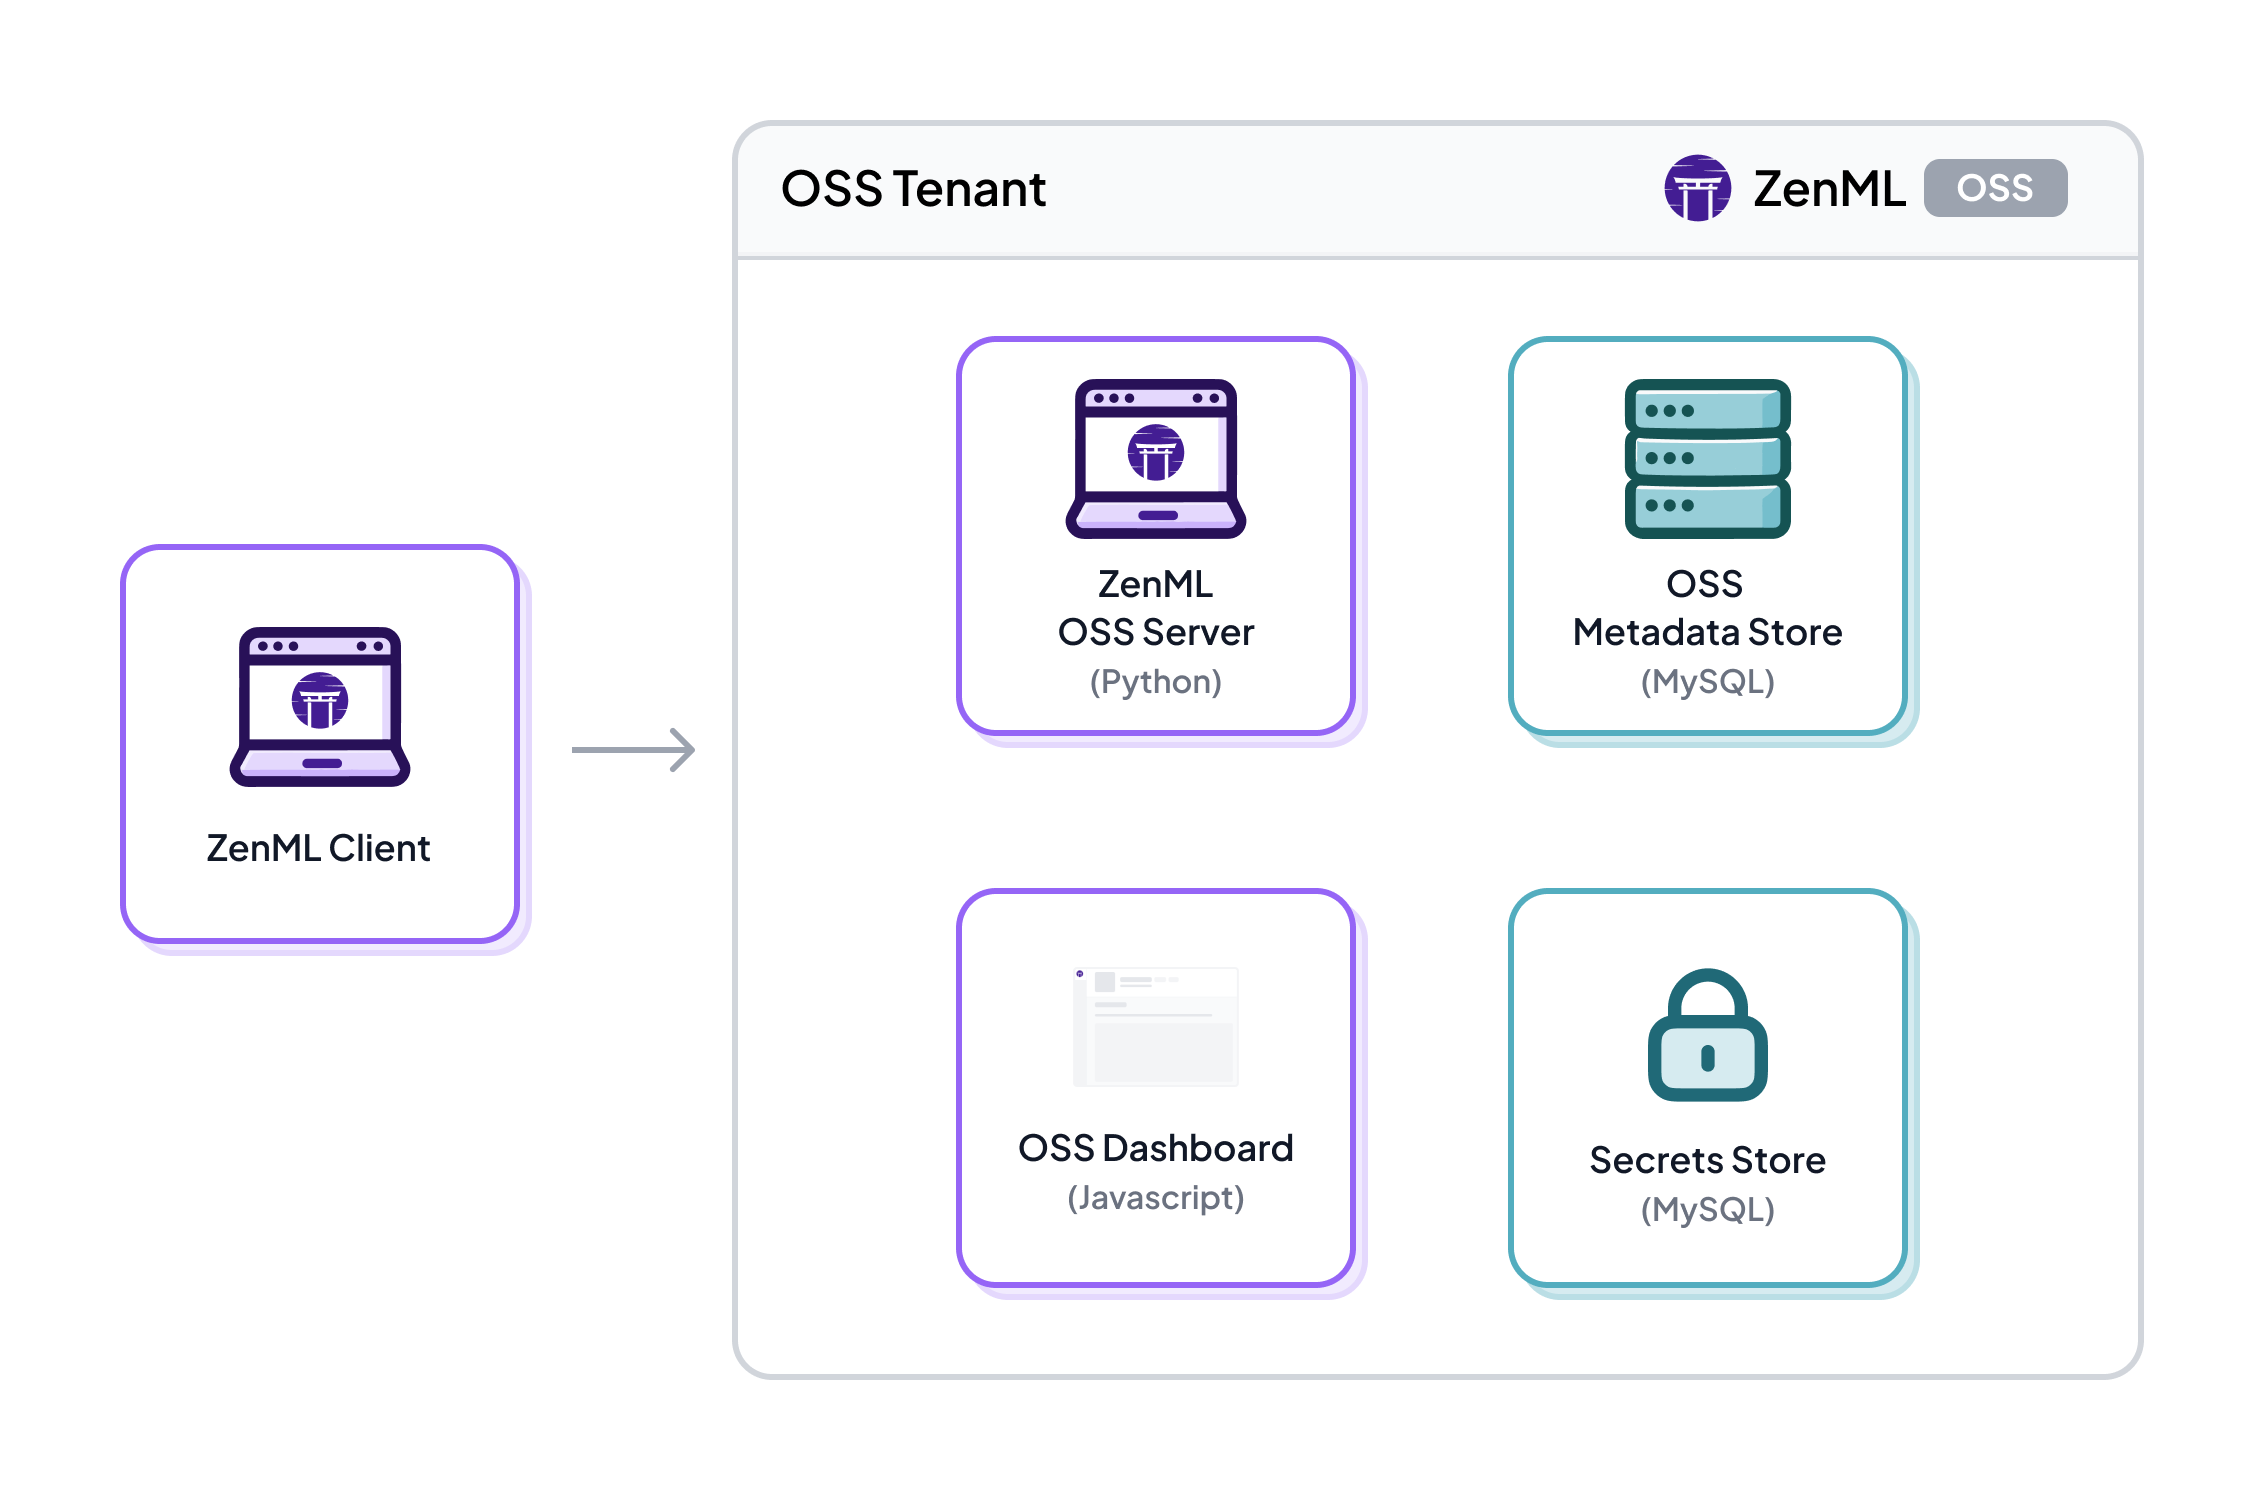
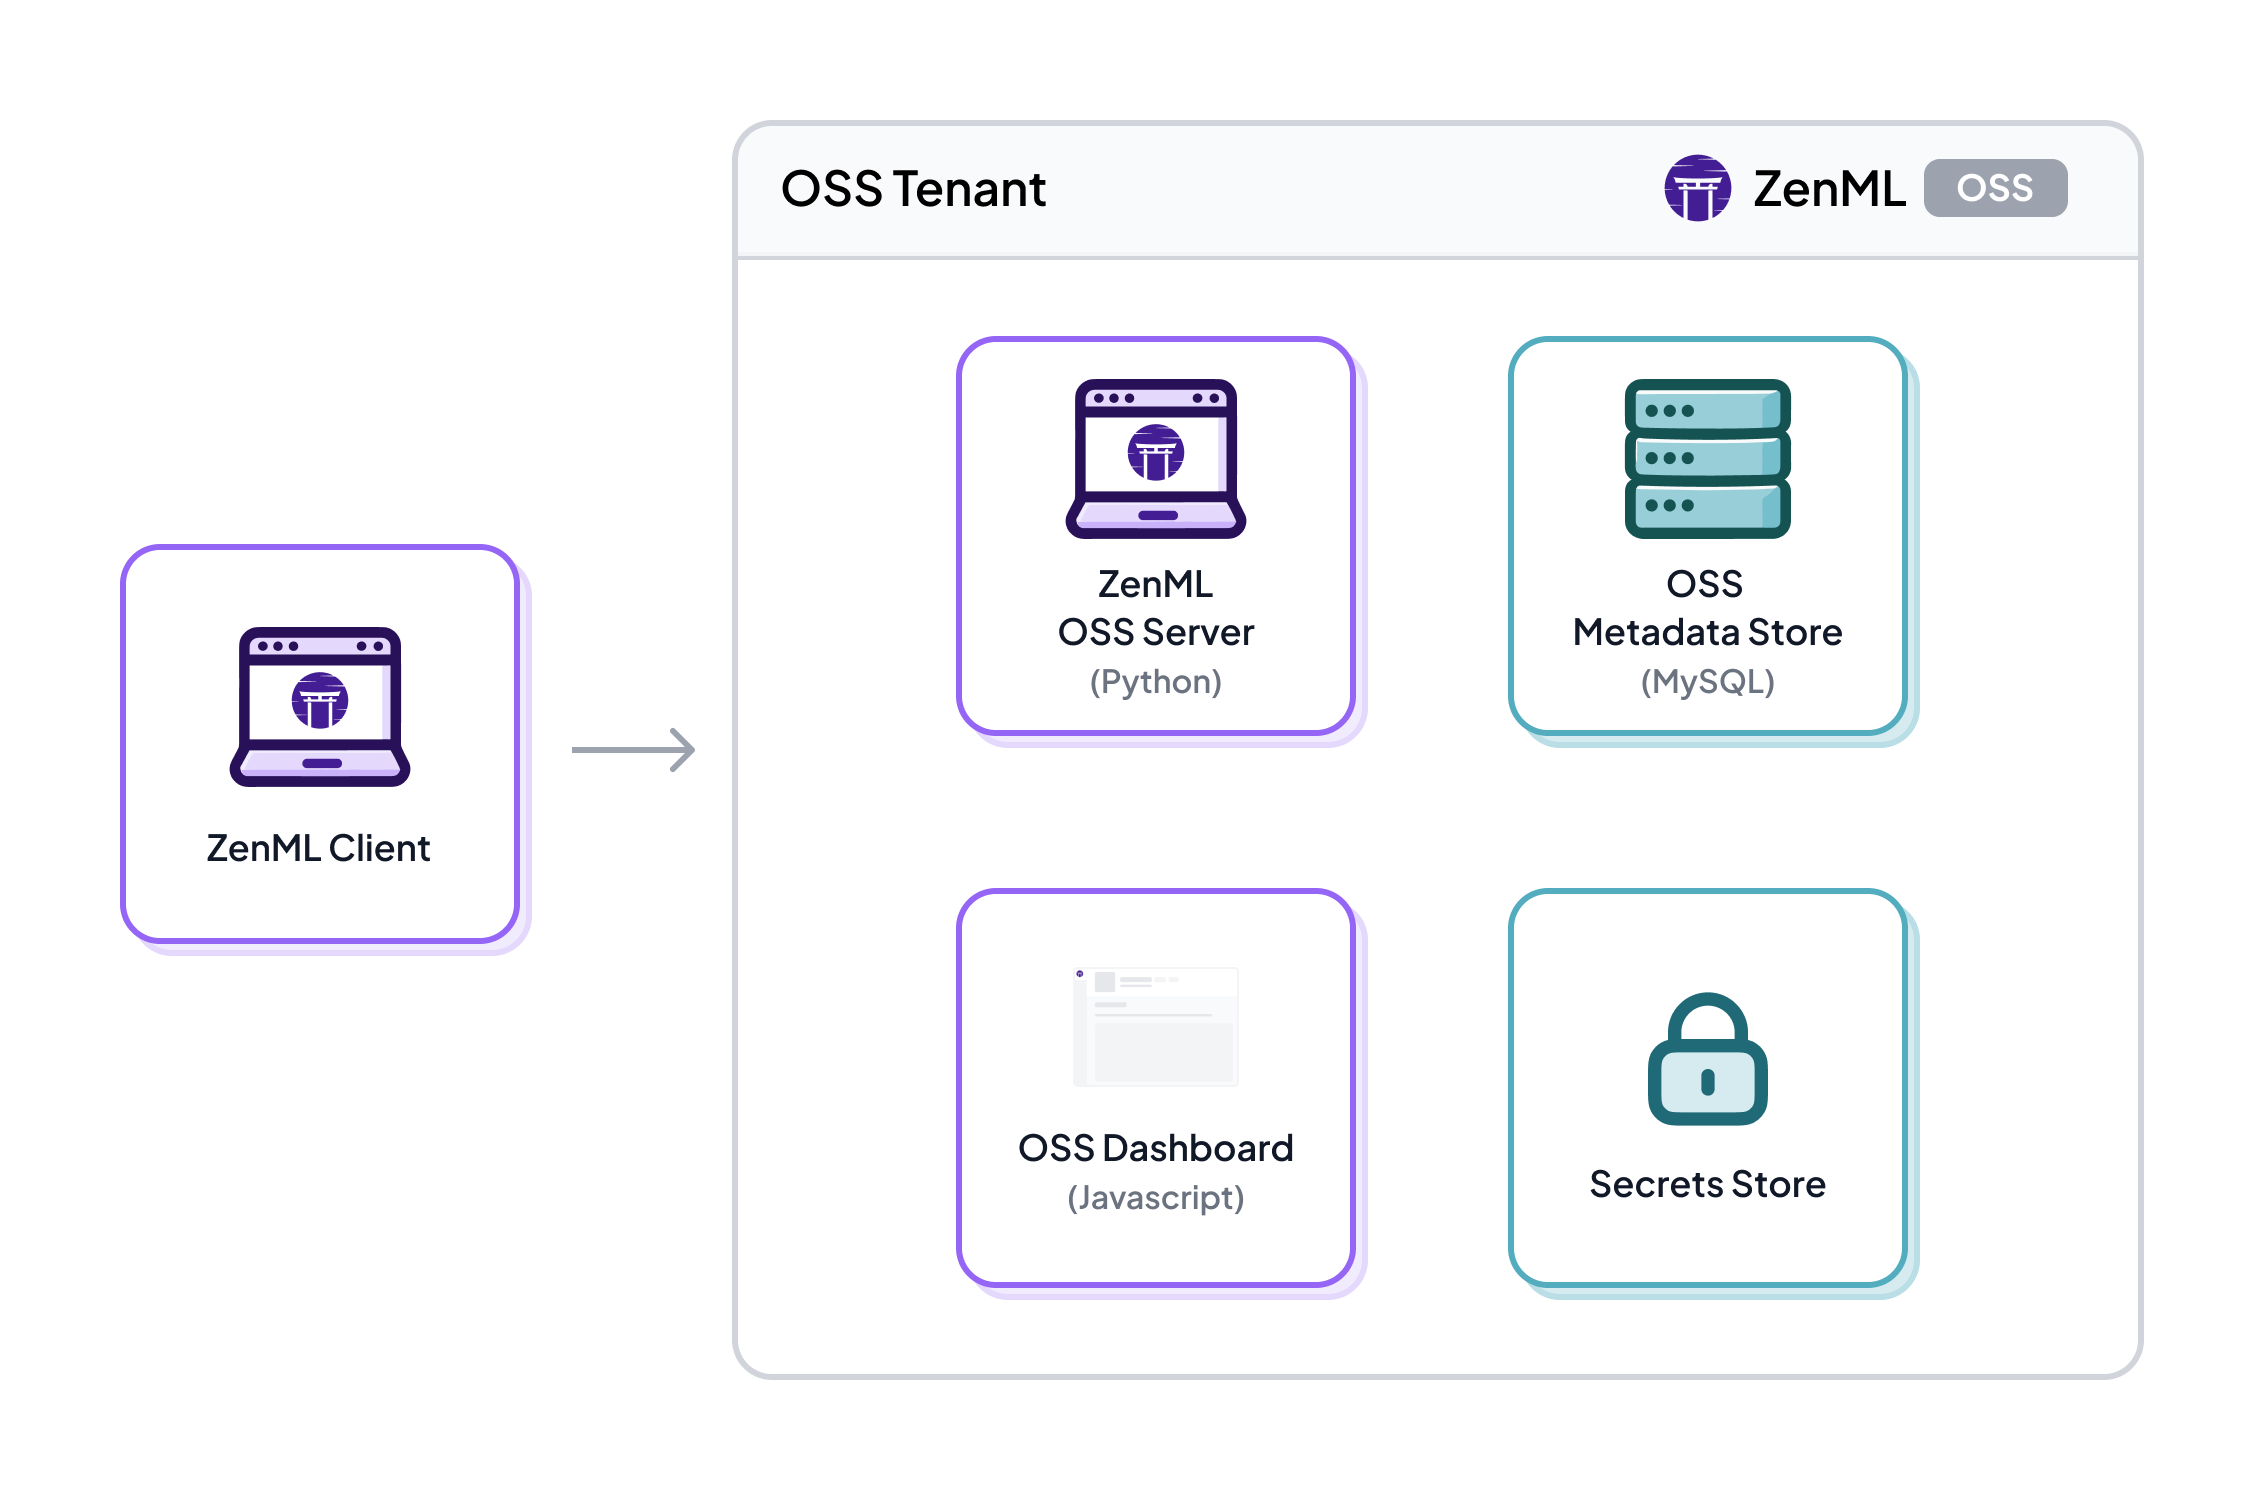
Update ZenML OSS deployment components

Changed region(s): [[0.6802, 0.644, 0.8039, 0.828]]

diff --git a/docs/book/getting-started/system-architectures.md b/docs/book/getting-started/system-architectures.md
@@ -9,15 +9,15 @@ SaaS, to self-hosted ZenML Pro!
 
 ## ZenML OSS (Community Edition, Self-hosted)
 
-A ZenML OSS deployment consists of the following moving pieces:
+A ZenML OSS deployment (AKA a tenant) consists of the following moving pieces:
 
-* **ZenML Server**: This is a FastAPI app that manages metadata of pipelines, artifacts, stacks etc.
+* **ZenML OSS Server**: This is a FastAPI app that manages metadata of pipelines, artifacts, stacks etc.
   Note: In ZenML Pro, the notion of a ZenML server is replaced with so-called "Tenant". For
   all intents and purposes, consider a ZenML Tenant == ZenML OSS server + more functionality. 
-* **ML Metadata Store**: This is where all ZenML tenant metadata is stored, including
+* **OSS Metadata Store**: This is where all ZenML tenant metadata is stored, including
   ML metadata such as tracking and versioning information about pipelines and
   models.
-* **ZenML OSS Dashboard**: This is a ReactJS app that shows pipelines, runs, etc.
+* **OSS Dashboard**: This is a ReactJS app that shows pipelines, runs, etc.
 * **Secrets Store**: All secrets and credentials required to access customer
   infrastructure services are stored in a secure secrets store. The ZenML Pro
   API has access to these secrets and uses them to access customer
